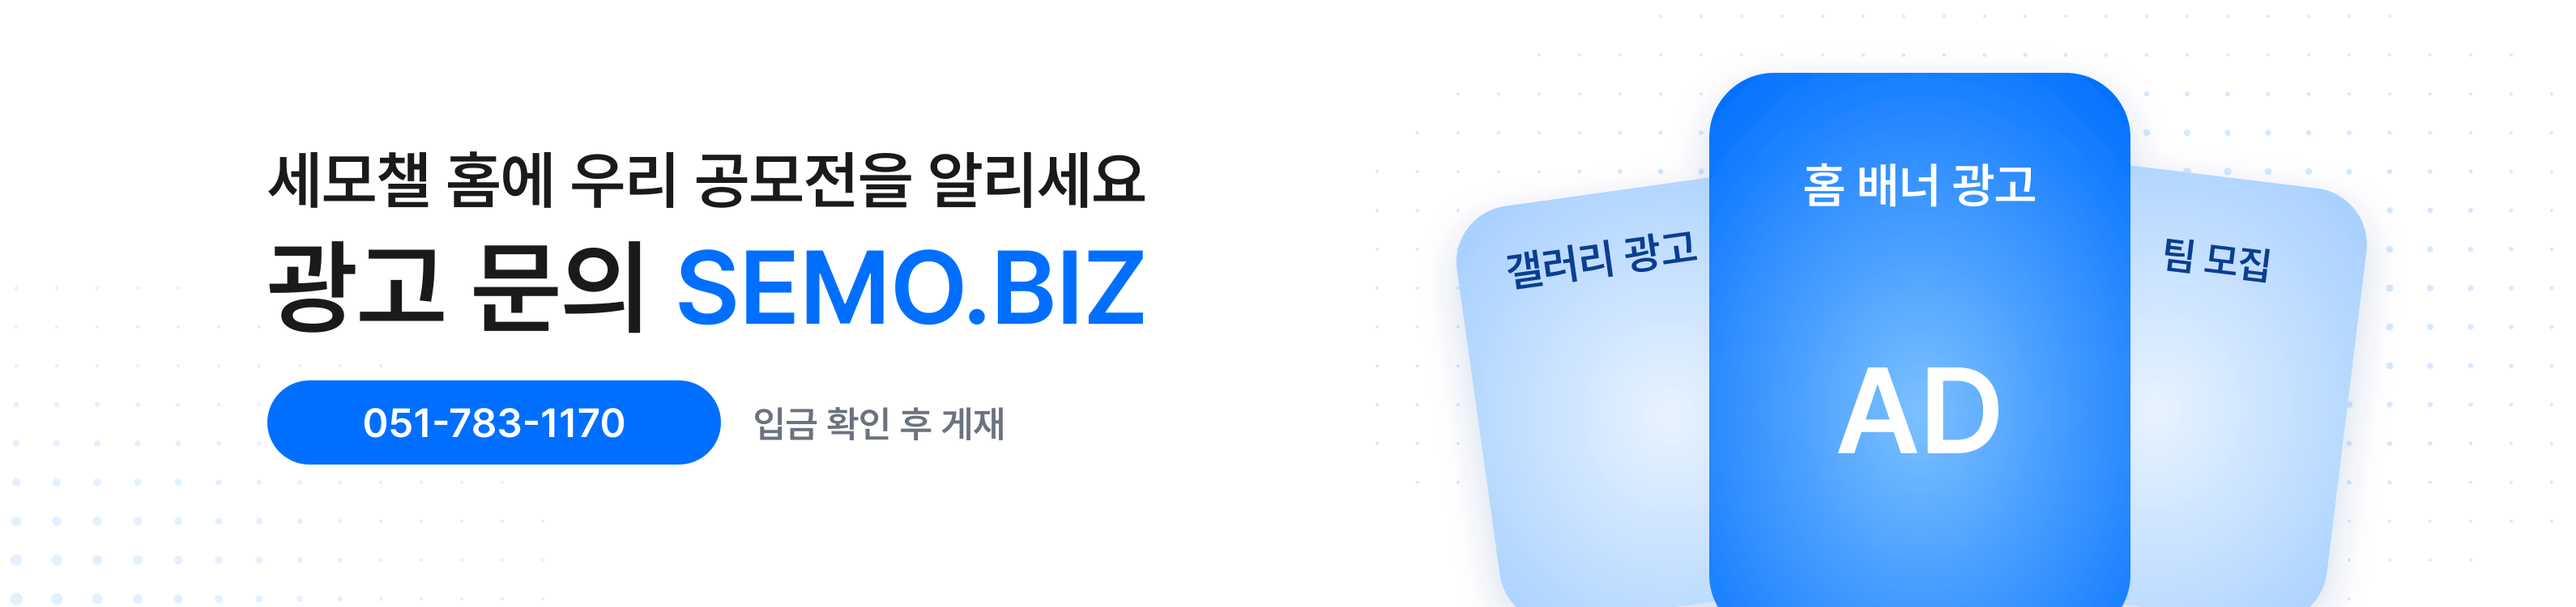
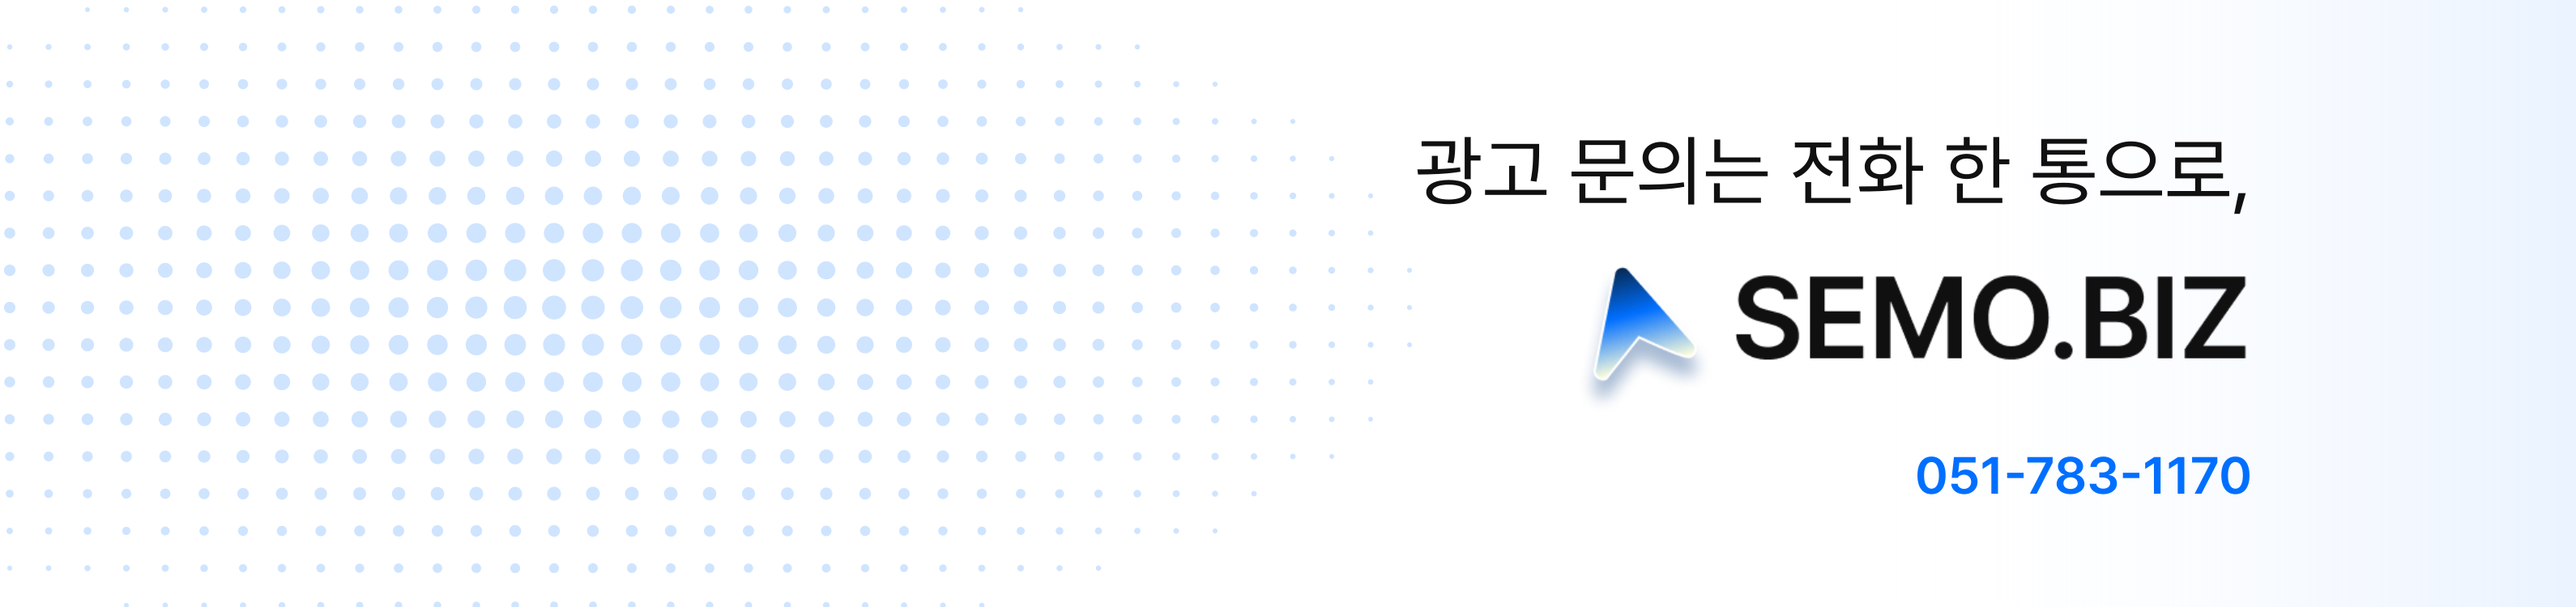
fix: 광고 문의 배너와 안내 페이지를 디자인 시스템 기준으로 다시 만든다
- 배너: 기존 홈 히어로 소재 구조(한 줄 카피 + SEMO.BIZ 로고 + 장식)와 토큰 색만 사용
- 안내 페이지: 광고 상품 안내와 같은 문서형 구조(Content/Title/Heading/불릿 섹션)

diff --git a/front/src/app/biz/(legal)/ad-inquiry/AdInquiryPage.tsx b/front/src/app/biz/(legal)/ad-inquiry/AdInquiryPage.tsx
@@ -1,78 +1,83 @@
 'use client';
 
-import styled from '@emotion/styled';
-import { colors as c, mobile } from '@/styles/design';
+import { BizLink } from '@/components/biz/BizShell';
+import { Content } from '@/components/common/UserShell';
+import { Heading, Icon, Stack, Title } from '@/components/common/Primitives';
+import { colors as c } from '@/styles/design';
 import { textStyle } from '@/styles/typography';
 
 // 광고는 온라인 결제 대신 전화 상담 → 계좌 입금 → 관리자 직접 등록(POST /admin/ads)으로 게재한다.
+// 광고 상품 안내(AdvertisingProductsPage)와 동일한 문서형 구조: 제목 · 소개 · (불릿 제목 + 본문) 섹션.
 const PHONE = '051-783-1170';
-const ACCOUNT = { bank: 'KB국민은행', number: '564701-01-619555' };
+const ACCOUNT = 'KB국민은행 564701-01-619555';
+
+const sections = [
+  {
+    heading: '문의 전화',
+    body: (
+      <>
+        <a href={`tel:${PHONE.replaceAll('-', '')}`} style={{ color: c.primary }}>
+          {PHONE}
+        </a>
+        {'\n'}광고 위치와 노출 기간, 광고비를 상담해 드립니다.
+      </>
+    ),
+  },
+  {
+    heading: '입금 계좌',
+    body: (
+      <>
+        {ACCOUNT}
+        {'\n'}상담에서 안내받은 광고비를 위 계좌로 입금해 주세요.
+      </>
+    ),
+  },
+  {
+    heading: '게재 절차',
+    body: '전화로 광고 위치와 기간을 상담합니다.\n안내받은 광고비를 입금 계좌로 입금합니다.\n입금이 확인되면 담당자가 광고를 등록하고 계약 기간에 맞춰 노출을 시작합니다.',
+  },
+] as const;
 
 export function AdInquiryPage() {
   return (
-    <Page>
-      <Title>광고 문의</Title>
-      <Lead>세모챌 홈 배너·갤러리 광고는 전화 상담 후 계좌 입금으로 진행돼요.</Lead>
-
-      <Card>
-        <Label>문의 전화</Label>
-        <PhoneLink href={`tel:${PHONE.replace(/-/g, '')}`}>{PHONE}</PhoneLink>
-        <Meta>평일 업무시간 · mice@miceplans.com</Meta>
-      </Card>
-
-      <Card>
-        <Label>입금 계좌</Label>
-        <Value>
-          {ACCOUNT.bank} {ACCOUNT.number}
-        </Value>
-      </Card>
-
-      <Steps>
-        <li>전화로 광고 위치와 기간을 상담해요.</li>
-        <li>안내받은 광고비를 위 계좌로 입금해요.</li>
-        <li>입금이 확인되면 담당자가 광고를 등록해 게재해요.</li>
-      </Steps>
-    </Page>
+    <Content>
+      <Stack gap={24}>
+        <Title style={{ fontSize: 32, fontWeight: 700, lineHeight: 'normal', color: c.gray900 }}>
+          광고 문의
+        </Title>
+        <p style={{ ...textStyle.body, color: c.gray700, whiteSpace: 'pre-wrap' }}>
+          세모챌 홈 배너와 갤러리 광고는 전화 상담 후 계좌 입금으로 진행됩니다.
+        </p>
+        {sections.map((s) => (
+          <section key={s.heading}>
+            <Heading
+              style={{
+                ...textStyle.h1_2,
+                color: c.gray900,
+                marginBottom: 8,
+                display: 'flex',
+                alignItems: 'center',
+                gap: 12,
+              }}
+            >
+              <Icon src="/assets/icons/bullet-icon.png" width={8} height={23} alt="" />
+              {s.heading}
+            </Heading>
+            <p style={{ ...textStyle.body, color: c.gray900, whiteSpace: 'pre-line' }}>{s.body}</p>
+          </section>
+        ))}
+        <p style={{ ...textStyle.body, color: c.gray700 }}>
+          상품별 노출 위치는{' '}
+          <BizLink href="/advertising/products" style={{ color: c.primary }}>
+            광고 상품 안내
+          </BizLink>
+          에서, 게재 기준은{' '}
+          <BizLink href="/advertising" style={{ color: c.primary }}>
+            광고 운영정책
+          </BizLink>
+          에서 확인할 수 있습니다.
+        </p>
+      </Stack>
+    </Content>
   );
 }
-
-const Page = styled.div({
-  display: 'flex',
-  flexDirection: 'column',
-  gap: 16,
-  width: '100%',
-  maxWidth: 560,
-  margin: '0 auto',
-  padding: '48px 0',
-  [mobile]: { padding: '24px 0' },
-});
-const Title = styled.h1({ margin: 0, ...textStyle.display, color: c.gray900 });
-const Lead = styled.p({ margin: 0, ...textStyle.body, color: c.gray500 });
-const Card = styled.section({
-  display: 'flex',
-  flexDirection: 'column',
-  gap: 6,
-  padding: 20,
-  border: `0.5px solid ${c.gray200}`,
-  borderRadius: 12,
-  background: c.white,
-});
-const Label = styled.span({ ...textStyle.subtitle, color: c.gray700 });
-const valueStyle = {
-  ...textStyle.display,
-  color: c.primary,
-  textDecoration: 'none',
-  wordBreak: 'keep-all',
-} as const;
-const Value = styled.strong(valueStyle);
-const PhoneLink = styled.a(valueStyle);
-const Meta = styled.span({ ...textStyle.metaText, color: c.gray500 });
-const Steps = styled.ol({
-  margin: 0,
-  paddingLeft: 20,
-  display: 'flex',
-  flexDirection: 'column',
-  gap: 6,
-  ...textStyle.bodySmall,
-  color: c.gray700,
-});
